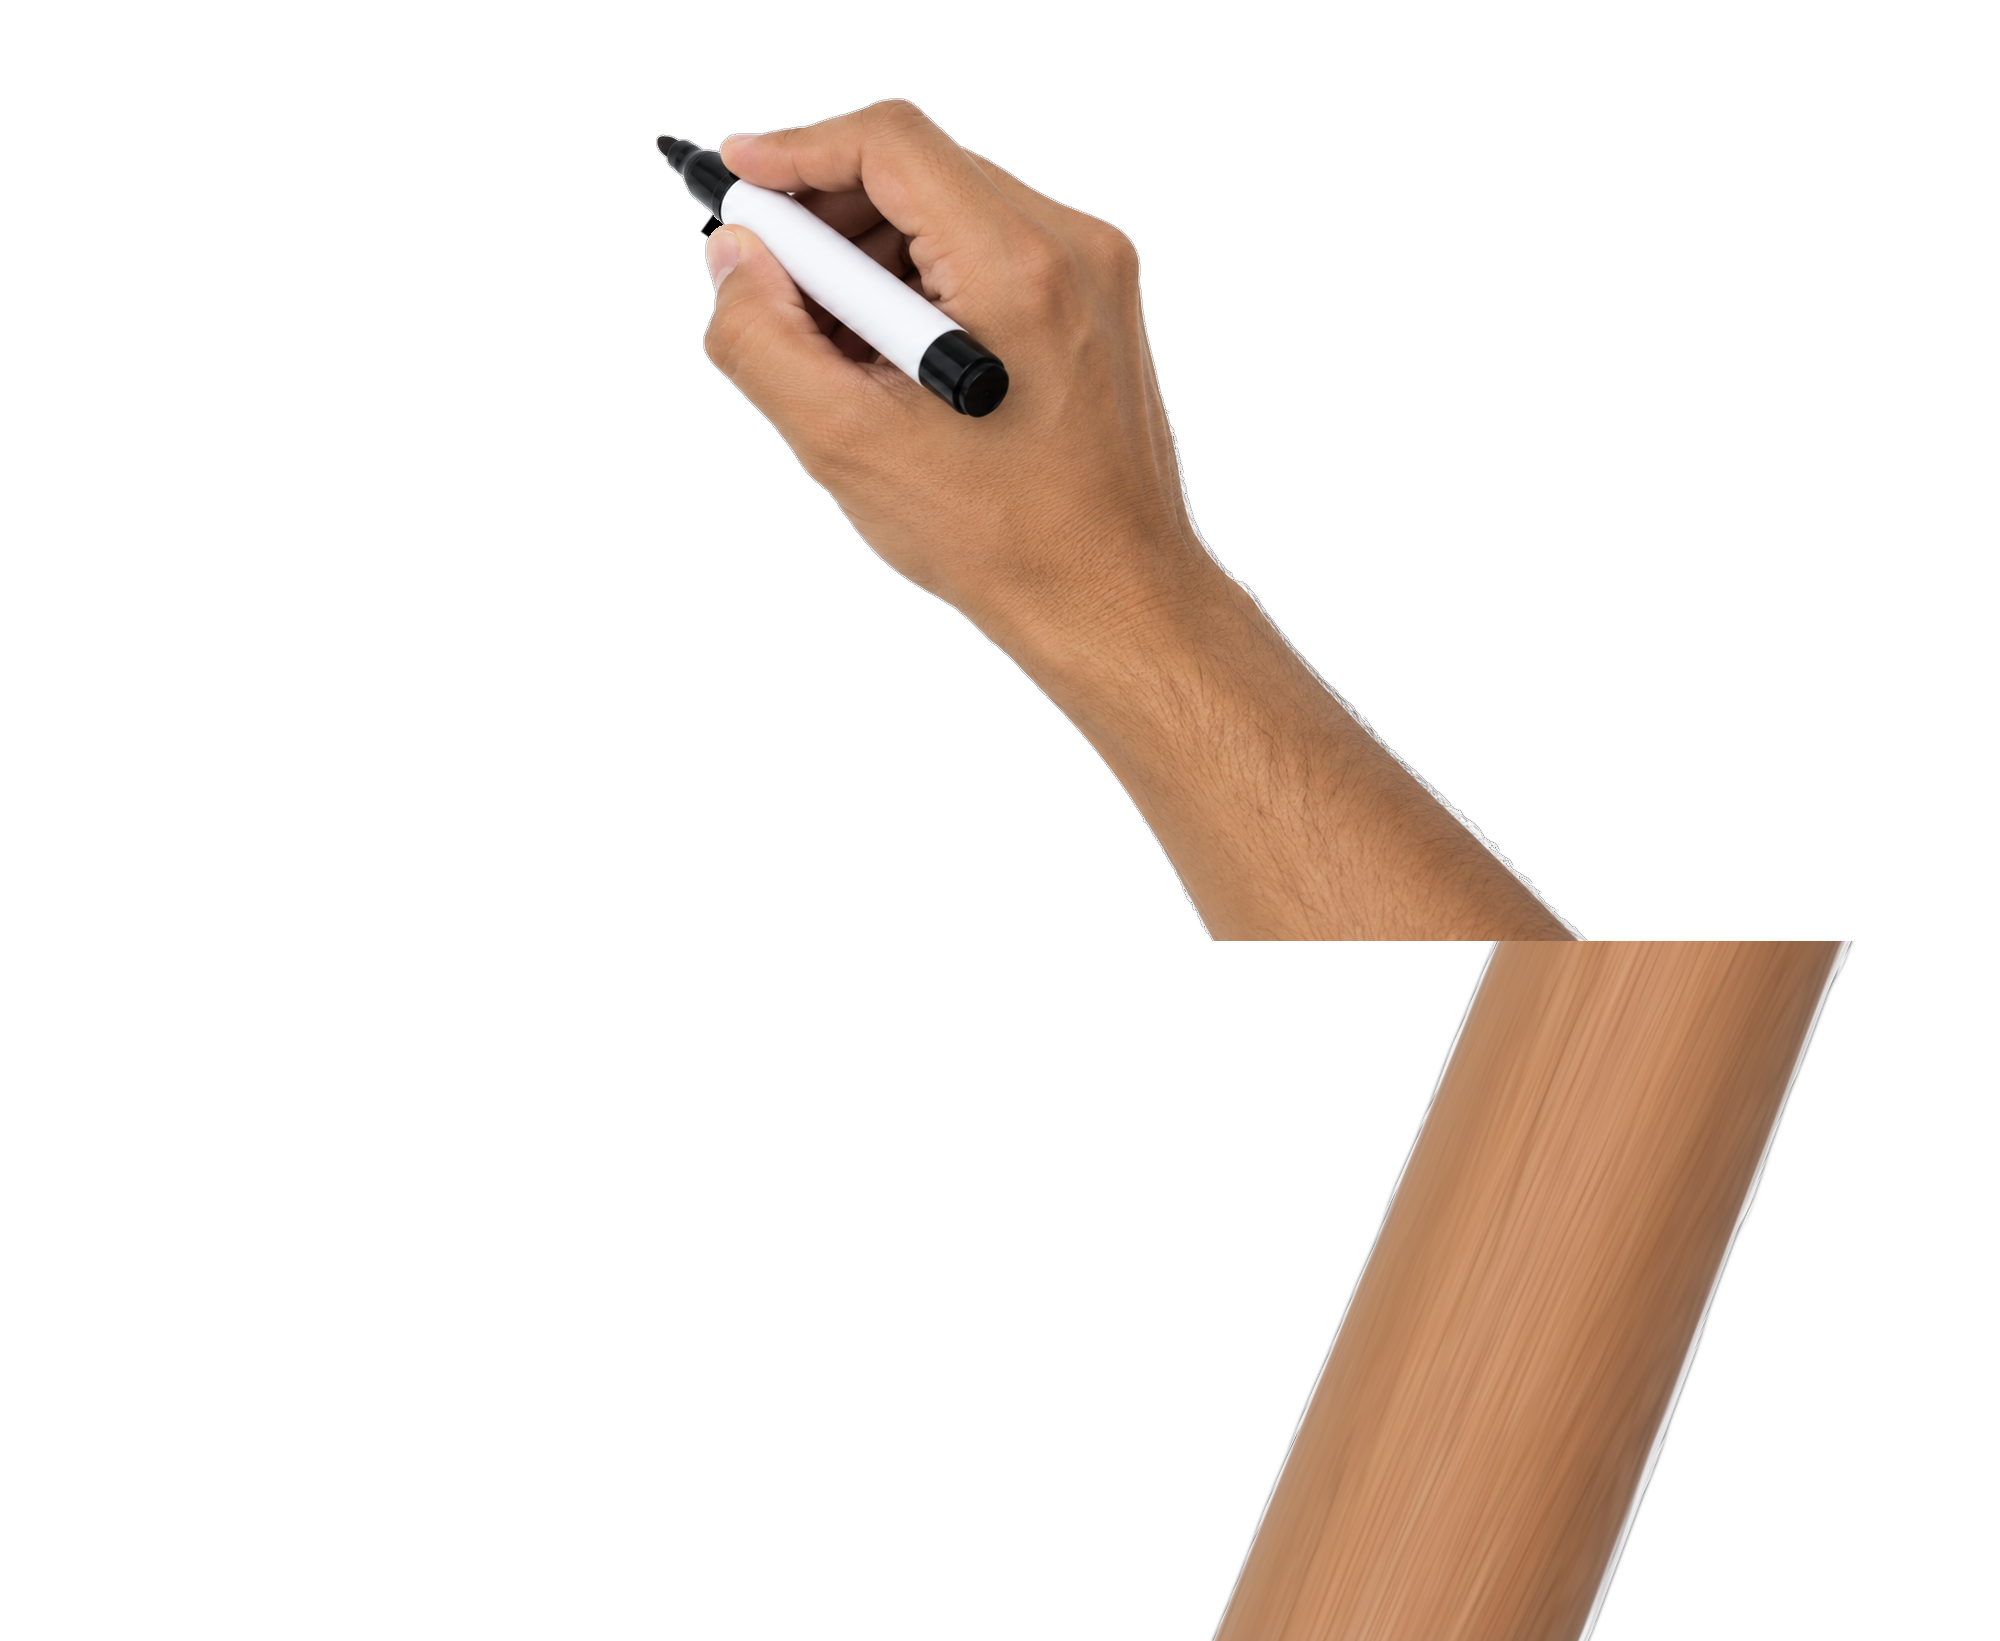
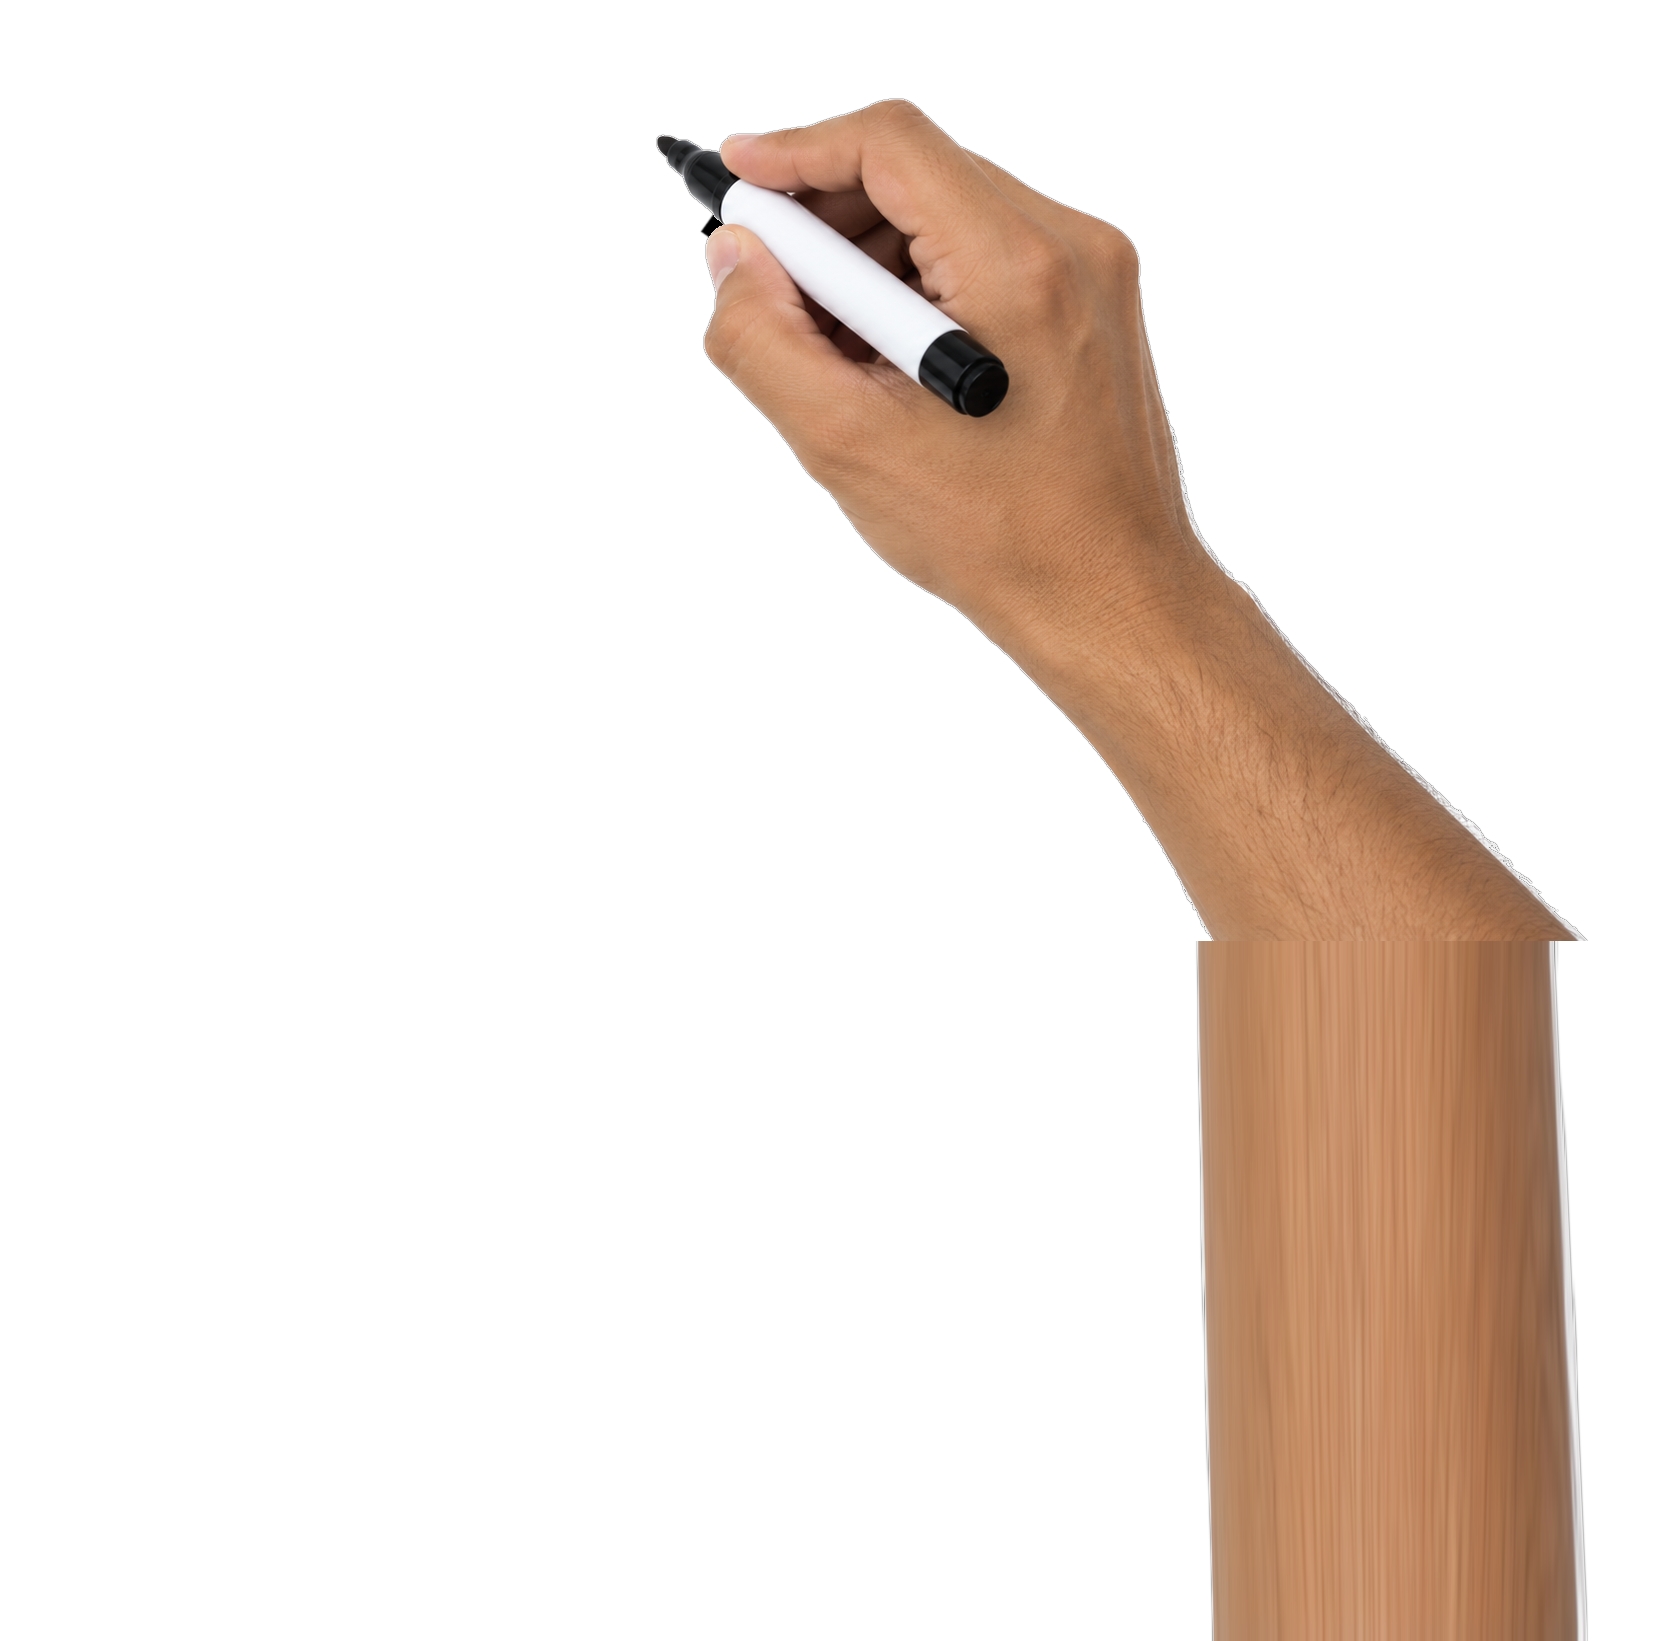
Hand mode: single marker hand draws everything
- pop/grow/slide/fade become a sketch reveal traced by the pen; text is written
  line by line; hand actions are serialised (one at a time) and compressed to fit
  the narration; pinch hand no longer used
- hand cutouts: straight forearm extrusion (seamless), smaller files

Changed region(s): [[0.311, 0.0622, 0.9641, 1.0]]

diff --git a/player/player.js b/player/player.js
@@ -25,8 +25,8 @@ const stage = document.getElementById("stage");
 const handLayer = document.getElementById("hand");
 let handMode = false;
 let handImgs = undefined;         // null = use vector hands; {marker:{...}, pinch:{...}} = photo cutouts
-const HAND_KIND = { draw: "marker", wipe: "marker", scalex: "marker", pop: "pinch", grow: "pinch", slide: "pinch", fade: "pinch" };
-const HAND_PRE = 0.4;             // pinch hand arrives this long before the element appears
+const HAND_KIND = { draw: "marker", wipe: "marker", scalex: "marker", sketch: "marker" };
+const HAND_PRE = 0;               // the marker never needs a pre-roll
 const HAND_GLIDE = 0.45;          // enter / leave travel time
 const HAND_OFF = { x: 1420, y: 980 };
 const lerp = (a, b, k) => ({ x: a.x + (b.x - a.x) * k, y: a.y + (b.y - a.y) * k });
@@ -42,7 +42,7 @@ async function loadHandAssets() {
 async function buildHands() {
   await loadHandAssets();
   handLayer.replaceChildren();
-  for (const kind of ["marker", "pinch"]) {
+  for (const kind of ["marker"]) {
     const g = document.createElementNS(NS, "g");
     g.id = "hand-" + kind + "-g";
     const cfg = handImgs && handImgs[kind];
@@ -91,8 +91,16 @@ function handTarget(a, t) {
     }
   }
   if (a.fx === "wipe") {
-    const bb = a.bb;
-    return toStage({ x: bb.x + (bb.width + 12) * easeInOut(q), y: bb.y + bb.height * 0.78 }, el.getScreenCTM());
+    const e = easeInOut(q), n = a.lines.length;
+    const i = Math.min(n - 1, Math.floor(e * n)), f = clamp(e * n - i);
+    const L = a.lines[i];
+    return toStage({ x: L.x - 2 + (L.width + 8) * f, y: L.y + L.height * 0.8 }, el.getScreenCTM());
+  }
+  if (a.fx === "sketch") {
+    const e = easeInOut(q), bb = a.bb;
+    const passes = Math.max(3, Math.min(12, Math.round(bb.height / 36)));
+    const zig = 0.5 + 0.5 * Math.sin(e * passes * Math.PI - Math.PI / 2);
+    return toStage({ x: bb.x + bb.width * zig, y: bb.y + bb.height * e }, el.getScreenCTM());
   }
   const bb = el.getBBox();
   if (a.fx === "scalex") {
@@ -136,10 +144,7 @@ function updateHand(t) {
   }
   if (!pos) { handLayer.style.display = "none"; return; }
   handLayer.style.display = "";
-  for (const k of ["marker", "pinch"]) {
-    const g = document.getElementById("hand-" + k + "-g");
-    if (g) g.style.display = k === kind ? "" : "none";
-  }
+  document.getElementById("hand-marker-g").style.display = "";
   const wob = Math.sin(t * 2.3) * 2.5;
   const rot = (kind === "marker" ? -6 : 2) + wob;
   const lift = pressing ? 0 : -14;
@@ -251,7 +256,8 @@ window.loadScene = async function (def, D) {
     if (!els.length) { console.warn("no match for", a.sel); continue; }
     els.forEach((el, i) => {
       const start = resolveTime(a.t ?? 0, D) + i * (a.stagger || 0);
-      const c = { el, fx: a.fx, start, dur: a.dur ?? 0.6, p: a };
+      const fx = handMode && ["pop", "grow", "slide", "fade"].includes(a.fx) ? "sketch" : a.fx;
+      const c = { el, fx, start, dur: a.dur ?? 0.6, p: a };
       anims.push(c);
       if (!touched.includes(el)) {
         touched.push(el);
@@ -264,14 +270,33 @@ window.loadScene = async function (def, D) {
         c.geoms.forEach((g) => { g._len = g.getTotalLength() || 1; g._hasFill = g.getAttribute("fill") && g.getAttribute("fill") !== "none"; });
         c.totalLen = c.geoms.reduce((s, g) => s + g._len, 0) || 1;
       }
-      if (a.fx === "wipe") {
+      if (fx === "wipe") {
+        // one clip rect per text line so the reveal (and the hand) runs line by line
+        const bb = el.getBBox();
+        const spans = el.tagName === "text" ? [...el.querySelectorAll("tspan")].filter((t) => t.hasAttribute("x")) : [];
+        const lines = (spans.length > 1 ? spans : [el]).map((n) => { const b = n.getBBox(); return { x: b.x, y: b.y, width: b.width, height: b.height }; });
+        const id = "clip" + anims.length;
+        const cp = document.createElementNS(NS, "clipPath");
+        cp.setAttribute("id", id);
+        c.clipRects = lines.map((L) => {
+          const r = document.createElementNS(NS, "rect");
+          r.setAttribute("x", L.x - 6); r.setAttribute("y", L.y - 6);
+          r.setAttribute("height", L.height + 12); r.setAttribute("width", 0);
+          cp.appendChild(r);
+          return r;
+        });
+        defsHost.appendChild(cp);
+        c.lines = lines; c.bb = bb;
+        el.setAttribute("clip-path", `url(#${id})`);
+      }
+      if (fx === "sketch") {
         const bb = el.getBBox();
         const id = "clip" + anims.length;
         const cp = document.createElementNS(NS, "clipPath");
         cp.setAttribute("id", id);
         const r = document.createElementNS(NS, "rect");
-        r.setAttribute("x", bb.x - 6); r.setAttribute("y", bb.y - 10);
-        r.setAttribute("height", bb.height + 20); r.setAttribute("width", 0);
+        r.setAttribute("x", bb.x - 8); r.setAttribute("y", bb.y - 8);
+        r.setAttribute("width", bb.width + 16); r.setAttribute("height", 0);
         cp.appendChild(r);
         defsHost.appendChild(cp);
         c.clipRect = r; c.bb = bb;
@@ -318,7 +343,12 @@ window.seek = function (t) {
         s.op *= p > 0 ? 1 : 0;
         break;
       }
-      case "wipe": a.clipRect.setAttribute("width", (a.bb.width + 12) * easeInOut(q)); break;
+      case "wipe": {
+        const e = easeInOut(q), n = a.lines.length;
+        a.clipRects.forEach((r, i) => r.setAttribute("width", (a.lines[i].width + 12) * clamp(e * n - i)));
+        break;
+      }
+      case "sketch": a.clipRect.setAttribute("height", (a.bb.height + 16) * easeInOut(q)); s.op *= p > 0 ? 1 : 0; break;
       case "count": a.el.textContent = fmtNum(valueAt(P, p), P); s.op *= p >= 0 ? 1 : 0; break;
       case "scalex": { const v = valueAt(P, p), m = P.values ? Math.max(...P.values) : Math.max(P.from ?? 0, P.to ?? 1); s.sx *= Math.max(v / m, 0.0001); s.op *= p > 0 ? 1 : 0; break; }
       case "bob": if (t >= a.start) { const ph = Math.sin(((t - a.start) / (P.period || 2)) * 2 * Math.PI); s.tx += (P.dx || 0) * ph; s.ty += (P.dy || 6) * ph; } break;

diff --git a/backend/app/compose.py b/backend/app/compose.py
@@ -80,11 +80,44 @@ def schedule(anims: list[dict], words, speech_end: float) -> list[dict]:
     return out
 
 
-def compose_scene(scene: Scene, theme: dict, words, audio_dur: float, *, is_last=False) -> dict:
+HAND_FX = {"draw", "wipe", "scalex", "pop", "grow", "slide", "fade"}
+
+
+def serialize_for_hand(anims: list[dict]) -> list[dict]:
+    """One pen, one action at a time: push each hand-drawn anim to start after the previous one ends."""
+    order = sorted(range(len(anims)), key=lambda i: anims[i]["t"])
+    prev_end = 0.0
+    for i in order:
+        a = anims[i]
+        if a["fx"] not in HAND_FX:
+            continue
+        if a["fx"] in ("pop", "grow", "slide", "fade"):
+            a["dur"] = max(float(a.get("dur", 0.6)), 0.9)   # sketching an element takes longer than a pop
+        a["t"] = round(max(a["t"], prev_end + 0.08), 3)
+        prev_end = a["t"] + float(a.get("dur", 0.6))
+    return anims
+
+
+def compose_scene(scene: Scene, theme: dict, words, audio_dur: float, *, is_last=False, hand=False) -> dict:
     svg, anims = render_scene(scene, theme)
     words = [(w, s + LEAD, e + LEAD) for w, s, e in words]
     speech_end = LEAD + audio_dur
     timed = schedule(anims, words, speech_end)
+    if hand:
+        timed = serialize_for_hand(timed)
+        # serialising can push the pen past the narration: compress the whole schedule back towards it
+        hand_anims = [a for a in timed if a["fx"] in HAND_FX]
+        if hand_anims:
+            first = min(a["t"] for a in hand_anims)
+            last_end = max(a["t"] + float(a.get("dur", 0.6)) for a in hand_anims)
+            target_end = speech_end + 0.4
+            if last_end > target_end and last_end > first:
+                k = max(0.5, (target_end - first) / (last_end - first))
+                for a in timed:
+                    if a["fx"] in ("bob", "spin", "pulse", "flow"):
+                        continue
+                    a["t"] = round(first + (a["t"] - first) * k, 3) if a["t"] >= first else a["t"]
+                    a["dur"] = round(float(a.get("dur", 0.6)) * k, 3)
     anim_end = max([a["t"] + float(a.get("dur", 0.6)) for a in timed if a["fx"] not in ("bob", "spin", "pulse", "flow")] + [0])
     duration = max(speech_end + (TAIL + 0.6 if is_last else TAIL), anim_end + 0.7, 2.5)
     return {"svgText": svg, "anim": timed, "camera": "drift", "duration": round(duration, 3)}

diff --git a/backend/app/jobs.py b/backend/app/jobs.py
@@ -122,7 +122,7 @@ async def run(p: dict):
     T = get_theme(sb.theme)
     spec_scenes, offsets, offset = [], [], 0.0
     for i, (sc, (mp3, words, adur)) in enumerate(zip(sb.scenes, voiced)):
-        s = compose.compose_scene(sc, T, words, adur, is_last=(i == len(sb.scenes) - 1))
+        s = compose.compose_scene(sc, T, words, adur, is_last=(i == len(sb.scenes) - 1), hand=inp.hand)
         s.update({"id": i, "audio": mp3, "thumb": str(pdir / f"thumb_{i}.png"), "hand": inp.hand, "mono": bool(T.get("mono"))})
         spec_scenes.append(s)
         offsets.append((offset, words))
